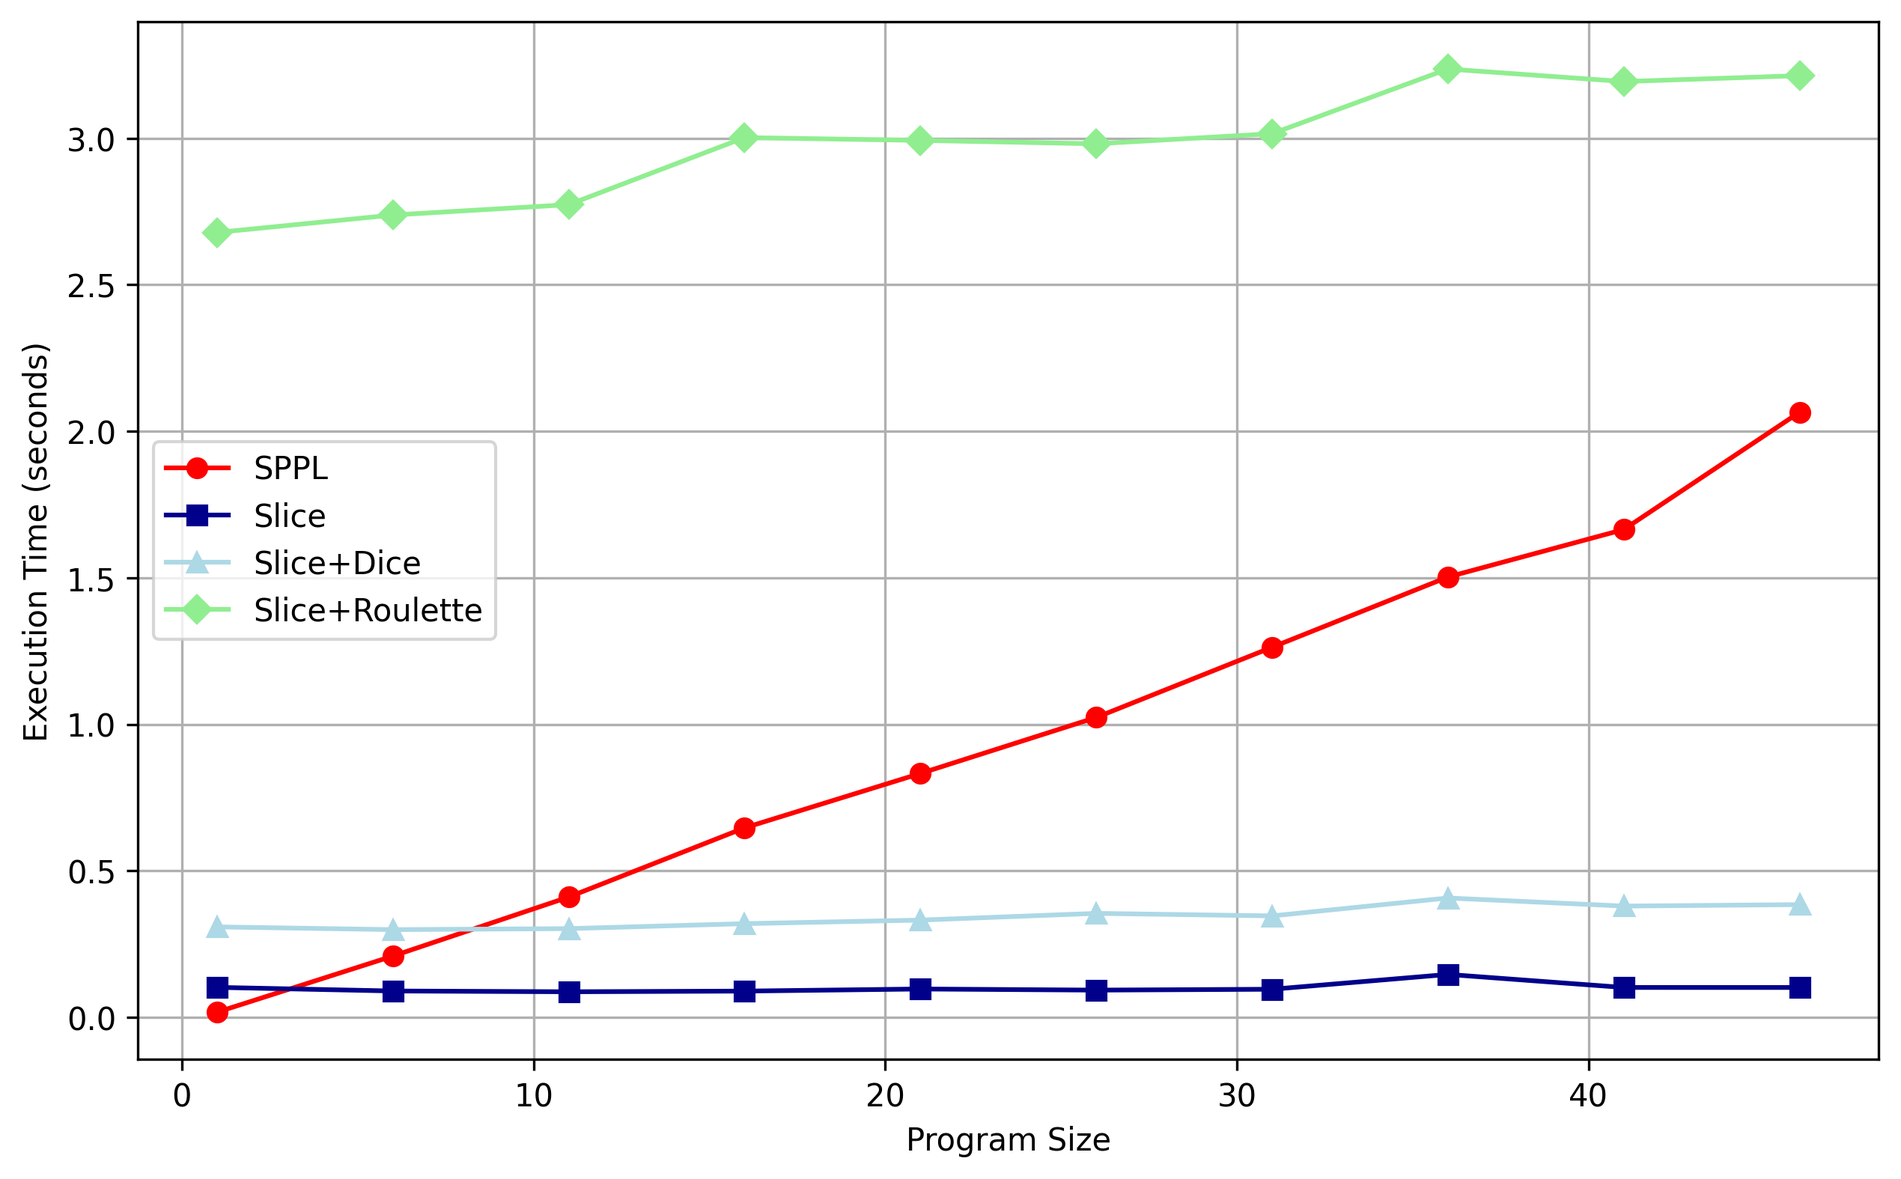
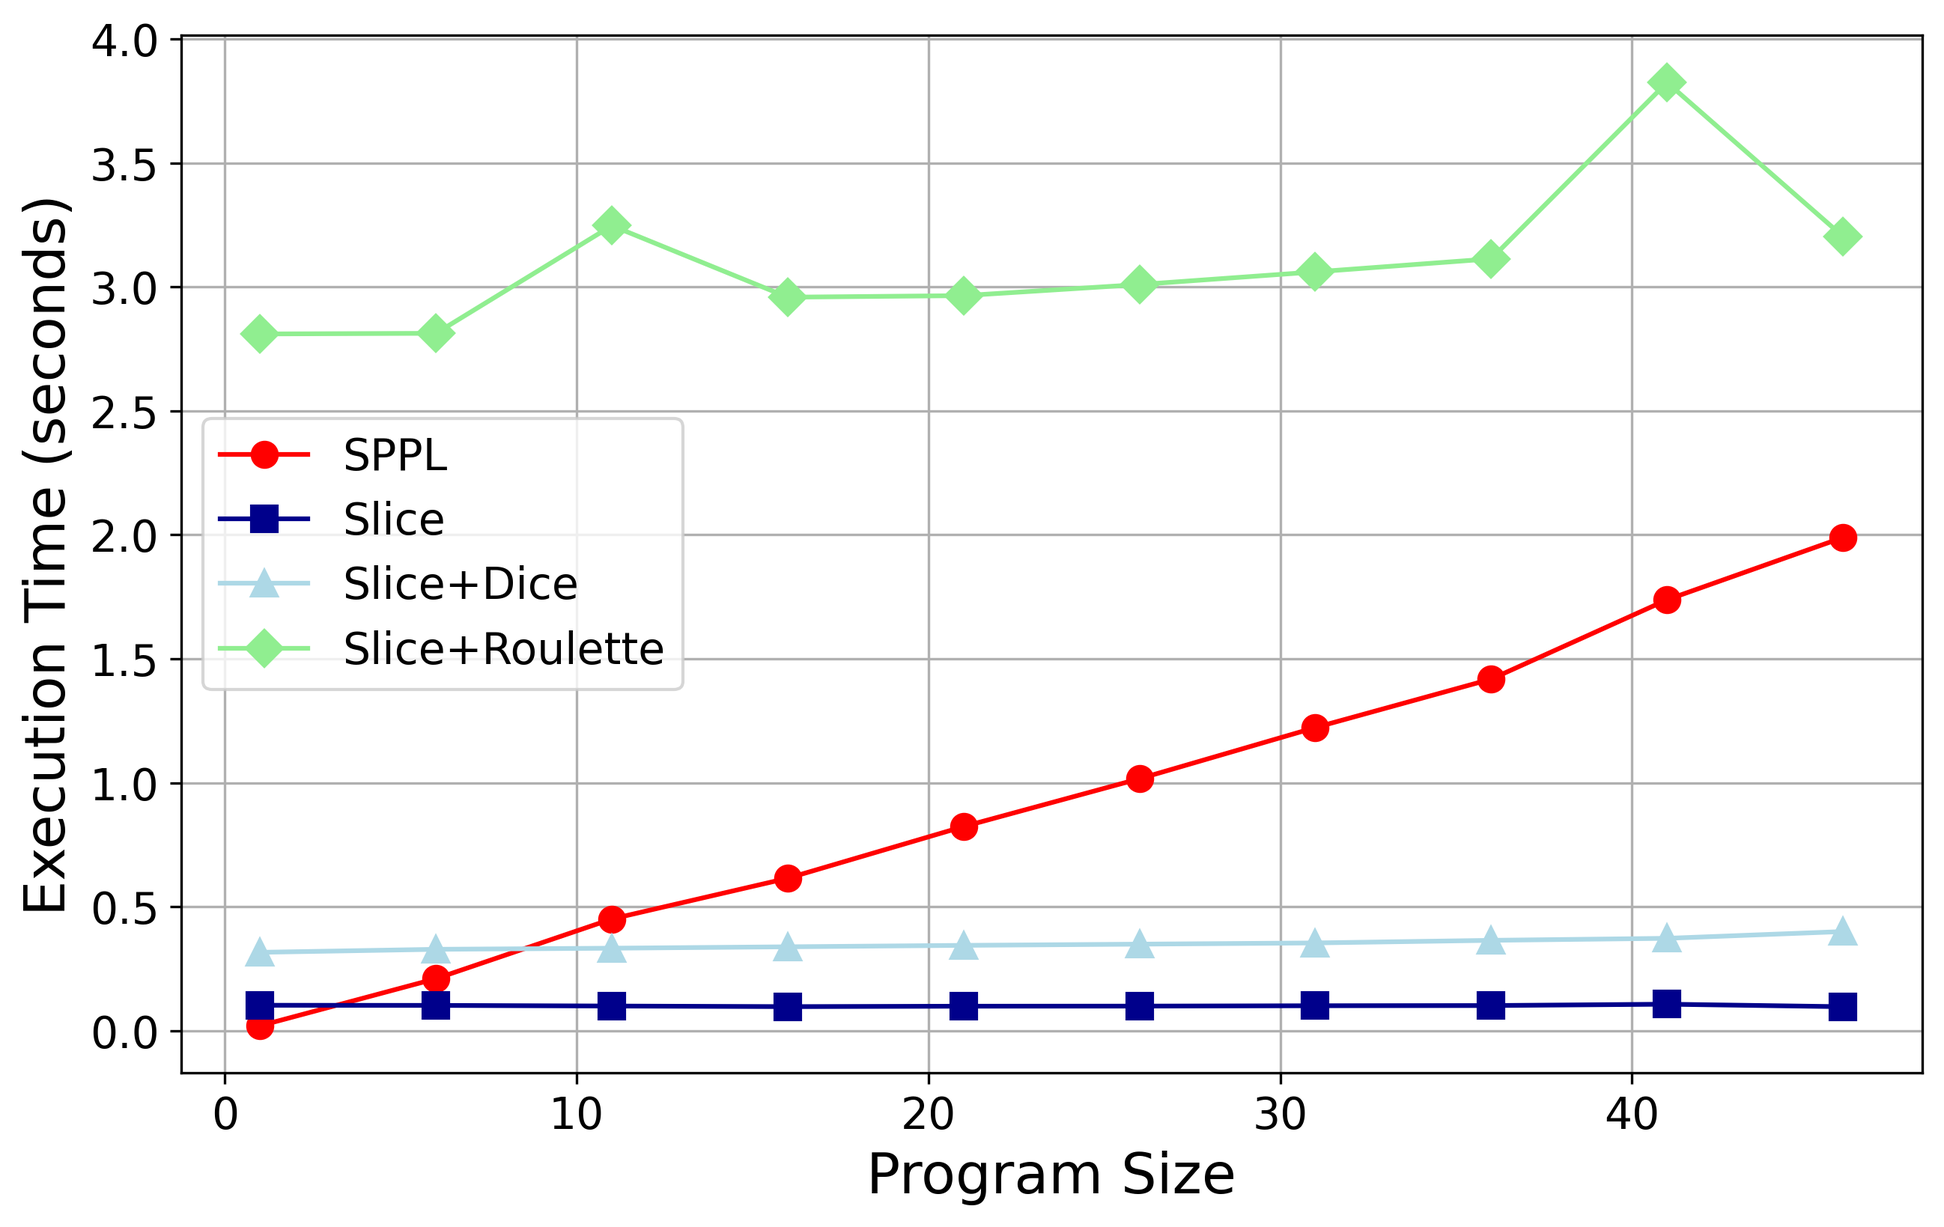
Update conditional independent graphs

diff --git a/tex/sections/9_appendix.tex b/tex/sections/9_appendix.tex
@@ -93,105 +93,93 @@
 
 \input{sections/6_soundness.tex}
 
-\section{Code Sketches for Synthethic Benchmarks}\label{appen:synthetic-sketches}
+\section{Code Sketches for Synthetic Benchmarks}\label{appen:synthetic-sketches}
+This section contains code snippets of the programs used in the scaling experiments in Section~\ref{sec:synthetic-benchmarks}. We implemented a Python script that automatically generates these programs based on configurable parameters such as program size, guard structure, and dependency pattern. For reproducibility, we used a fixed random seed of random.seed(11). All $r_i$ values in the generated programs, where $0 \leq r_i \leq 1$ is randomly chosen, are rounded to two decimal places.
+
+
 \subsection{Conditional Independent Programs}
-\subsubsection{Conditional Independent (Figure~\ref{fig:cond-benchmarks-a})}
 \begin{figure}
     \begin{lstlisting}
         let x1 = uniform(0,1) in
-        let x2 = if x1 < 0.02127797524369223 then uniform(0,2) else uniform(0,3) in
-        let x3 = if x2 < 0.28071433142875446 then uniform(0,4) else uniform(0,5) in
-        let x4 = if x3 < 0.5860419475395264 then uniform(0,6) else uniform(0,7) in
-        let x5 = if x4 < 0.19269553925164867 then uniform(0,8) else uniform(0,9) in
-        let x6 = if x5 < 0.775821987107561 then uniform(0,10) else uniform(0,11) in
-        x6 < 0.5
+        let x2 = if x1 < 0.56 then uniform(0,2) else uniform(0,3) in
+        let x3 = if x2 < 0.92 then uniform(0,4) else uniform(0,5) in
+        let x4 = if x3 < 0.47 then uniform(0,6) else uniform(0,7) in
+        let x5 = if x4 < 0.51 then uniform(0,8) else uniform(0,9) in
+        x5 < 0.5
     \end{lstlisting}
-    \caption{Conditional Independent: Program of size 6}
+    \caption{Conditional Independent (Figure~\ref{fig:cond-benchmarks-a}): Program of size 5. Each variable depends on its immediate predecessor variable via a conditional branch. Each uniform distribution is distinct.}
 \end{figure}
 
-
-\subsubsection{Conditional Random 1 (Figure~\ref{fig:cond-benchmarks-b})}
 \begin{figure}
     \begin{lstlisting}
         let x1 = uniform(0,1) in
-        let x2 = if x1 < 0.5240176907596484 then uniform(0,2) else uniform(0,3) in
-        let x3 = if x2 < 0.842296396988118 then uniform(0,4) else uniform(0,5) in
-        let x4 = if x3 < 0.4933834187296479 then uniform(0,6) else uniform(0,7) in
-        let x5 = if x1 < 0.2759984160282654 then uniform(0,8) else uniform(0,9) in
-        let x6 = if x4 < 0.4400934019200762 then uniform(0,10) else uniform(0,11) in
-        x6 < 0.5
+        let x2 = if x1 < 0.18 then uniform(0,2) else uniform(0,3) in
+        let x3 = if x1 < 0.63 then uniform(0,4) else uniform(0,5) in
+        let x4 = if x2 < 0.09 then uniform(0,6) else uniform(0,7) in
+        let x5 = if x1 < 0.14 then uniform(0,8) else uniform(0,9) in
+        x5 < 0.5
     \end{lstlisting}
-    \caption{Conditional Random 1: Program of size 6. Note that this structure may lead to unused variables—that is, some previously defined $x_k$ may not influence any subsequent computation. his is intentional: by allowing such redundancy, we more realistically simulate programs with noisy or extraneous computations, and stress-test the ability of our analysis to distinguish relevant from irrelevant variables.}
+    \caption{Conditional Random 1 (Figure~\ref{fig:cond-benchmarks-b}): Program of size 5. EAch variable depends on a randomly selected predecessor via a conditional branch. Note that this structure may lead to unused variables; that is, some previously defined $x_i$ may not influence any subsequent computation. Each uniform distribution is distinct.}
 \end{figure}
 
-\subsubsection{Conditional Random 2 (Figure~\ref{fig:cond-benchmarks-c})}
 \begin{figure}
     \begin{lstlisting}
-        let x1 = uniform(0, 6) in
-        let x2 = if uniform(0, 8) < 0.35 then x1 else x1 in
-        let x3 = if uniform(0, 4) < 0.36 then uniform(0, 1) else x2 in
-        let x4 = if x3 < 0.49 then uniform(0, 9) else uniform(0, 7) in
-        let x5 = if uniform(0, 5) < 0.17 then x1 else uniform(0, 5) in
-        let x6 = if uniform(0, 10) < 0.73 then x3 else uniform(0, 1) in
-        let x7 = if uniform(0, 7) < 0.25 then x6 else x5 in
-        let x8 = if uniform(0, 5) < 0.91 then uniform(0, 9) else uniform(0, 5) in
-        let x9 = if uniform(0, 4) < 0.95 then uniform(0, 2) else uniform(0, 7) in
-        let x10 = if uniform(0, 4) < 0.25 then uniform(0, 2) else uniform(0, 8) in
-        uniform(0, 7) < 0.5
+        let x1 = uniform(0, 10) in
+        let x2 = if x1 < 0.06 then x1 else x1 in
+        let x3 = if uniform(0, 4) < 0.64 then x2 else x1 in
+        let x4 = if x3 < 0.71 then uniform(0, 5) else x1 in
+        let x5 = if uniform(0, 4) < 0.4 then x1 else uniform(0, 2) in
+        x4 < 0.5
     \end{lstlisting}
-    \caption{Conditional Random 2: Program of size 10}
+    \caption{Conditional Random 2 (Figure~\ref{fig:cond-benchmarks-c}): Program of size 5. Each variable uses a randomized conditional expression where the guard and both branches may involve either a randomly selected predecessor variable or a fresh uniform distribution. The second parameter of the uniform distribution is a random integer between 0 and 10, so this may result in repeated bounds across different variables, meaning not all distributions are guaranteed to be unique.}
 \end{figure}
 
 \subsection{Alternating Guard Programs}
-\subsubsection{Alternating Guard 1 (Figure~\ref{fig:alt-benchmarks-a})}
 \begin{figure}
     \begin{lstlisting}
         let x1 = uniform(0,1) in
-        let x2 = if x1 < 0.24593522427346853 then uniform(0,2) else uniform(0,3) in
-        let x3 = if x2 < 0.4686888753617632 then uniform(0,4) else uniform(0,5) in
-        let x4 = if x1 < 0.07493104127514962 then uniform(0,6) else uniform(0,7) in
-        let x5 = if x2 < 0.9276561221033321 then uniform(0,8) else uniform(0,9) in
+        let x2 = if x1 < 0.02 then uniform(0,2) else uniform(0,3) in
+        let x3 = if x2 < 0.68 then uniform(0,4) else uniform(0,5) in
+        let x4 = if x1 < 0.21 then uniform(0,6) else uniform(0,7) in
+        let x5 = if x2 < 0.93 then uniform(0,8) else uniform(0,9) in
         x5 < 0.5
     \end{lstlisting}
-    \caption{Alternating Guard 1: Program of size 5 with guard span 2}
+    \caption{Alternating Guard 1 (Figure~\ref{fig:alt-benchmarks-a}): Program of size 5 with guard span 2. Guard variables in the comparisons cycle with a fixed span of 2. Note this may lead to unused variables, in particular those variables $x_i$ where $i$ is greater than the span.}
 \end{figure}
 
-\subsubsection{Alternating Guard 2 (Figure~\ref{fig:alt-benchmarks-b})}
 \begin{figure}
     \begin{lstlisting}
         let x1 = uniform(0,1) in
-        let x2 = if x1 < 0.1508340520981068 then uniform(0,2) else x1 in
-        let x3 = if x2 < 0.8288386660129474 then uniform(0,4) else x2 in
-        let x4 = if x1 < 0.8924541597029958 then uniform(0,6) else x3 in
-        let x5 = if x2 < 0.5697933654526154 then uniform(0,8) else x4 in
+        let x2 = if x1 < 0.38 then uniform(0,2) else x1 in
+        let x3 = if x2 < 0.71 then uniform(0,4) else x2 in
+        let x4 = if x1 < 0.42 then uniform(0,6) else x3 in
+        let x5 = if x2 < 0.57 then uniform(0,8) else x4 in
         x5 < 0.5
     \end{lstlisting}
-    \caption{Alternating Guard 2: Program of size 5 with guard span 2}
+    \caption{Alternating Guard 2 (Figure~\ref{fig:alt-benchmarks-b}): Program of size 5 with guard span 2. Guard variables in the comparisons cycle with a fixed span of 2. Unlike Alternating Guard 1, all variables are used in subsequent branches, either as guards or else branch expressions. This construction ensures that every variable contributes to the final computation. Each uniform distribution generated is unique.}
 \end{figure}
 
-\subsubsection{Alternating Guard 3 (Figure~\ref{fig:alt-benchmarks-c})}
 \begin{figure}
     \begin{lstlisting}
         let x1 = uniform(0,1) in
-        let x2 = if x1 < 0.4839576430388068 then uniform(0,2) else uniform(0,3) in
+        let x2 = if x1 < 0.67 then uniform(0,2) else uniform(0,3) in
         let x3 = if x2 < 0.5 then x2 else uniform(0,4) in
         let x4 = if x1 < 0.5 then x3 else uniform(0,6) in
         let x5 = if x2 < 0.5 then x4 else uniform(0,8) in
         x5 < 0.5
     \end{lstlisting}
-    \caption{Alternating Guard 3: Program of size 5 with guard span 2}
+    \caption{Alternating Guard 3 (Figure~\ref{fig:alt-benchmarks-c}): Program of size 5 with guard span 2. Guard variables in the comparisons cycle with a fixed span of 2. Unlike Alternating Guard 1, all variables are used in subsequent branches, either as guards or if branch expressions. This construction ensures that every variable contributes to the final computation. Each uniform distribution generated is unique.}
 \end{figure}
 
-\subsubsection{Random Alternating (Figure~\ref{fig:alt-benchmarks-d})}
 \begin{figure}
     \begin{lstlisting}
-        let x1 = uniform(0,3) in
-        let x2 = if x1 < 0.2882781296166358 then uniform(0,1) else uniform(0,4) in
-        let x3 = if x2 < 0.39909381806724803 then uniform(0,3) else uniform(0,10) in
-        let x4 = if x1 < 0.0310318095749047 then uniform(0,7) else uniform(0,9) in
-        let x5 = if x2 < 0.8796036340827663 then uniform(0,5) else uniform(0,10) in
+        let x1 = uniform(0,2) in
+        let x2 = if x1 < 0.13 then uniform(0,2) else uniform(0,1) in
+        let x3 = if x2 < 0.06 then uniform(0,8) else uniform(0,3) in
+        let x4 = if x1 < 0.68 then uniform(0,4) else uniform(0,8) in
+        let x5 = if x2 < 0.51 then uniform(0,3) else uniform(0,7) in
         x5 < 0.5
     \end{lstlisting}
-    \caption{Random Alternating: Program of size 5 with guard span 2}
+    \caption{Random Alternating (Figure~\ref{fig:alt-benchmarks-d}): Program of size 5 with guard span 2. Guard variables in the comparisons cycle with a fixed span of 2. The second parameter of the uniform distribution is a random integer between 0 and 10, so this may result in repeated bounds across different variables, meaning not all distributions are guaranteed to be unique.}
 \end{figure}
 

diff --git a/benchmarks/scaling/gen.py b/benchmarks/scaling/gen.py
@@ -5,6 +5,8 @@ Note: only generates programs that grow linearly in size.
 '''
 
 import random
+random.seed(11) # random seed for reproducibility
+# round all constants in the comparisons (< c) to two decimal places
 
 ### Generate programs with conditional independence ###
 '''
@@ -16,7 +18,7 @@ def build_conditional_independent_slice(comparison_count):
     variables = [f"x{n}" for n in range(1, comparison_count + 1)]
 
     for idx in range(comparison_count):
-        rand_const = random.uniform(1e-10, 1 - 1e-10)
+        rand_const = round(random.random(), 2)
         var = variables[idx]
         if idx == 0:
             code.append(f"let {var} = uniform(0,{counter}) in")
@@ -63,7 +65,7 @@ def build_conditional_random_independent_slice_1(comparison_count):
     variables = [f"x{n}" for n in range(1, comparison_count + 1)]
 
     for idx in range(comparison_count):
-        rand_const = random.uniform(1e-10, 1 - 1e-10)
+        rand_const = round(random.random(), 2)
         var = variables[idx]
         if idx == 0:
             code.append(f"let {var} = uniform(0,{counter}) in")
@@ -114,7 +116,7 @@ def build_conditional_random_independent_slice_2(depth):
     valid_flag = [False]
     
     def prev_var_or_uniform(prev_vars):
-        if not prev_vars or random.random() < 0.5:
+        if not prev_vars or round(random.random(), 2) < 0.5:
             return g.uniform(0, random.randint(1, 10))
         else:
             return random.choice(prev_vars[-5:])
@@ -140,7 +142,7 @@ def build_conditional_random_independent_slice_2(depth):
                     valid_flag[0] = True
                         
             quantity = g.ite(
-                g.lt(guard_expr, g.const(random.uniform(1e-10, 1 - 1e-10))),
+                g.lt(guard_expr, g.const(round(random.random(), 2))),
                 thenb_expr,
                 elseb_expr
             )
@@ -183,7 +185,7 @@ def build_alternating_guard_slice_1(comparison_count, guard_span):
     variables = [f"x{n}" for n in range(1, comparison_count + 1)]
 
     for idx in range(comparison_count):
-        rand_const = random.uniform(1e-10, 1 - 1e-10)
+        rand_const = round(random.random(), 2)
         var = variables[idx]
         if idx == 0:
             code.append(f"let {var} = uniform(0,{counter}) in")
@@ -211,7 +213,7 @@ def build_alternating_guard_slice_2(comparison_count, guard_span):
     variables = [f"x{n}" for n in range(1, comparison_count + 1)]
 
     for idx in range(comparison_count):
-        rand_const = random.uniform(1e-10, 1 - 1e-10)
+        rand_const = round(random.random(), 2)
         var = variables[idx]
         if idx == 0:
             code.append(f"let {var} = uniform(0,{counter}) in")
@@ -240,7 +242,7 @@ def build_alternating_guard_slice_3(comparison_count, guard_span):
     variables = [f"x{n}" for n in range(1, comparison_count + 1)]
 
     for idx in range(comparison_count):
-        rand_const = random.uniform(1e-10, 1 - 1e-10)
+        rand_const = round(random.random(), 2)
         var = variables[idx]
         if idx == 0:
             code.append(f"let {var} = uniform(0,{counter}) in")
@@ -276,7 +278,7 @@ def build_random_alternating_guard_slice(comparison_count, guard_span):
     variables = [f"x{n}" for n in range(1, comparison_count + 1)]
 
     for idx in range(comparison_count):
-        rand_const = random.uniform(1e-10, 1 - 1e-10)
+        rand_const = round(random.random(), 2)
         var = variables[idx]
         if idx == 0:
             code.append(f"let {var} = uniform(0,{random.randint(1, 10)}) in")
@@ -293,9 +295,32 @@ def build_random_alternating_guard_slice(comparison_count, guard_span):
 
 
 def main(): 
-    program, last_var = build_alternating_guard_slice_3(10, 4)
-    print(program)
-    # print(last_var)
+    print("=== Conditional Independent ===")
+    generators = [
+        build_conditional_independent_slice,
+        build_conditional_random_independent_slice_1,
+        build_conditional_random_independent_slice_2,
+    ]
+    
+    for gen in generators:
+        print(f"--- {gen.__name__} ---")
+        program, last_var = gen(5)
+        print(program)
+        print()
+
+    print("=== Alternating Guard ===")
+    alt_generators = [
+        build_alternating_guard_slice_1,
+        build_alternating_guard_slice_2,
+        build_alternating_guard_slice_3,
+        build_random_alternating_guard_slice,
+    ]
+
+    for gen in alt_generators:
+        print(f"--- {gen.__name__} ---")
+        program, last_var = gen(5, 2)  # comparison_count=5, guard_span=2
+        print(program)
+        print()
 
 if __name__ == "__main__":
     main()

diff --git a/benchmarks/scaling/run.py b/benchmarks/scaling/run.py
@@ -393,7 +393,8 @@ def test_asymptotic_scaling_2(test_func, timeout=300):
     return benchmark_results
 
 
-def generate_line_graphs(benchmark_results, output_path):
+def generate_line_graphs(benchmark_results, output_path,
+                         dice_backend=True, roulette_backend=True):
     '''
     Args:
     benchmark_results: list of tuples (prog_size, ((slice_dice, total_dice), (slice_roulette, total_roulette)), sppl_times)
@@ -403,10 +404,18 @@ def generate_line_graphs(benchmark_results, output_path):
     '''
     plt.figure(figsize=(10, 6))
     
-    # Separate data for SPPL (which may have timeouts) and Slice (which continues)
+    # Set larger font sizes globally for this figure
+    plt.rcParams.update({
+        'axes.labelsize': 18,     # axis labels
+        'axes.titlesize': 18,     # plot title (if any)
+        'xtick.labelsize': 14,    # x tick labels
+        'ytick.labelsize': 14,    # y tick labels
+        'legend.fontsize': 14,    # legend text
+        'lines.markersize': 8     # marker size
+    })
+    
     all_prog_sizes = [b[0] for b in benchmark_results]
     
-    # For SPPL, only plot non-timeout values
     sppl_prog_sizes = []
     sppl_times = []
     for b in benchmark_results:
@@ -414,29 +423,23 @@ def generate_line_graphs(benchmark_results, output_path):
             sppl_prog_sizes.append(b[0])
             sppl_times.append(b[2])
     
-    # Plot SPPL if we have data
     if sppl_times:
         plt.plot(sppl_prog_sizes, sppl_times, label="SPPL", color="red", marker='o')
     
-    # Plot slice times, default to using dice slice times if both backends are specified
     if dice_backend:
         slice_times = [b[1][0][0] for b in benchmark_results]  # slice_dice times
         plt.plot(all_prog_sizes, slice_times, label="Slice", color="darkblue", marker='s')
     
-    # Plot backend times
     if dice_backend and roulette_backend:
-        # Both backends - plot both total times
         dice_times = [b[1][0][1] for b in benchmark_results]  # total_dice times
         roulette_times = [b[1][1][1] for b in benchmark_results]  # total_roulette times
         
         plt.plot(all_prog_sizes, dice_times, label="Slice+Dice", color="lightblue", marker='^')
         plt.plot(all_prog_sizes, roulette_times, label="Slice+Roulette", color="lightgreen", marker='D')
     elif dice_backend:
-        # Only dice backend
         dice_times = [b[1][0][1] for b in benchmark_results]  # total_dice times
         plt.plot(all_prog_sizes, dice_times, label="Slice+Dice", color="lightblue", marker='^')
     elif roulette_backend:
-        # Only roulette backend
         roulette_times = [b[1][1][1] for b in benchmark_results]  # total_roulette times
         plt.plot(all_prog_sizes, roulette_times, label="Slice+Roulette", color="lightgreen", marker='D')
 
@@ -448,6 +451,7 @@ def generate_line_graphs(benchmark_results, output_path):
     plt.savefig(output_path, dpi=300, bbox_inches="tight")
     plt.show()
     print(f"Saved scaling plot to {output_path}", flush=True)
+
 
 
 print_outputs_flag = False

diff --git a/tex/sections/7_evaluation.tex b/tex/sections/7_evaluation.tex
@@ -21,7 +21,8 @@ We test programs where each variable's distribution depends on comparisons with 
 
 \begin{itemize}
 \item Each variable $x_i$ depends on its immediate predecessor via a conditional branch $x_{i-1} < r_{i-1}$, forming a sequential dependency chain. See Figure~\ref{fig:cond-benchmarks-a}.
-\item Each variable $x_i$ depends on a randomly selected predecessor $x_j$ (for $j < i$) via a conditional branch $x_j < r_{i-1}$. See Figures~\ref{fig:cond-benchmarks-b} and~\ref{fig:cond-benchmarks-c}, where the former ensures unique parameters in each uniform distribution, while the latter samples such parameters randomly. 
+\item Each variable $x_i$ depends on a randomly selected predecessor $x_j$ (for $j < i$) via a conditional branch $x_j < r_{i-1}$. See Figures~\ref{fig:cond-benchmarks-b}.
+\item Each variable $x_i$ uses a randomized conditional expression, where the guard and both branches may involve either a randomly selected predecessor $x_j$ (for $j < i$) or a freshly sampled uniform value. See Figure~\ref{fig:cond-benchmarks-c}.
 \end{itemize}
 
 \input{figures/scaling-conditional}

diff --git a/tex/figures/nested-conditionals.tex b/tex/figures/nested-conditionals.tex
@@ -7,6 +7,6 @@
         ...
         x_n < 0.5
     \end{lstlisting}
-    \caption{Structure of synthetic programs used in our evaluation. Each program consists of a sequence of nested \texttt{if} statements, where each branch conditions on a previous variable sampled from a uniform distribution, proceeding until the final condition $x_n < 0.5$ is reached. $r_i \in [0,1]$ is a randomly sampled value. This construction allows us to test how well \Slice{} handles deep conditional branching and stochastic control flow.}
+    \caption{Structure of synthetic programs used in our evaluation. Each program consists of a sequence of nested \texttt{if} statements, where each branch conditions on a previous variable sampled from a uniform distribution, proceeding until the final condition $x_n < 0.5$ is reached. $0 \leq r_i \leq 1$ is a random float. This construction allows us to test how well \Slice{} handles deep conditional branching and stochastic control flow.}
     \label{fig:nested-conditionals}
     \end{figure}
